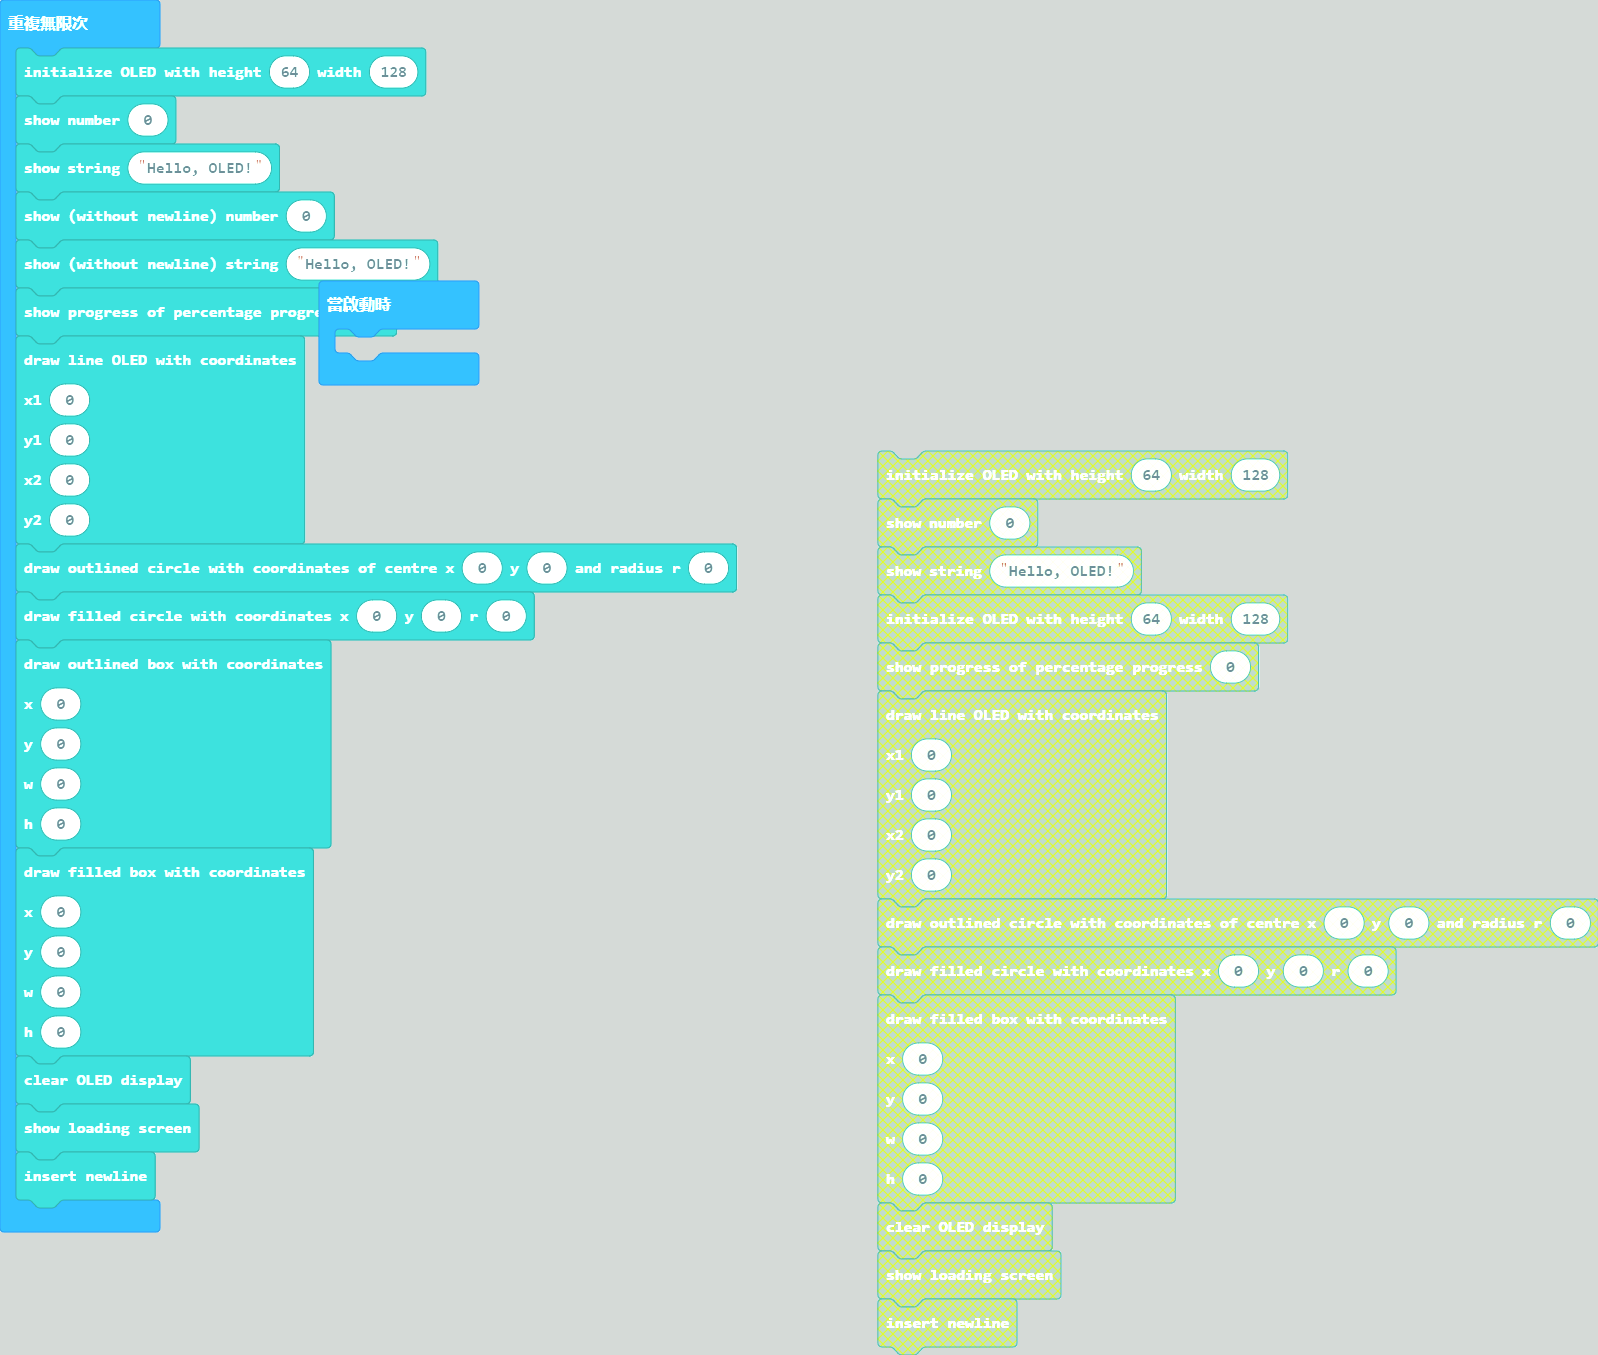
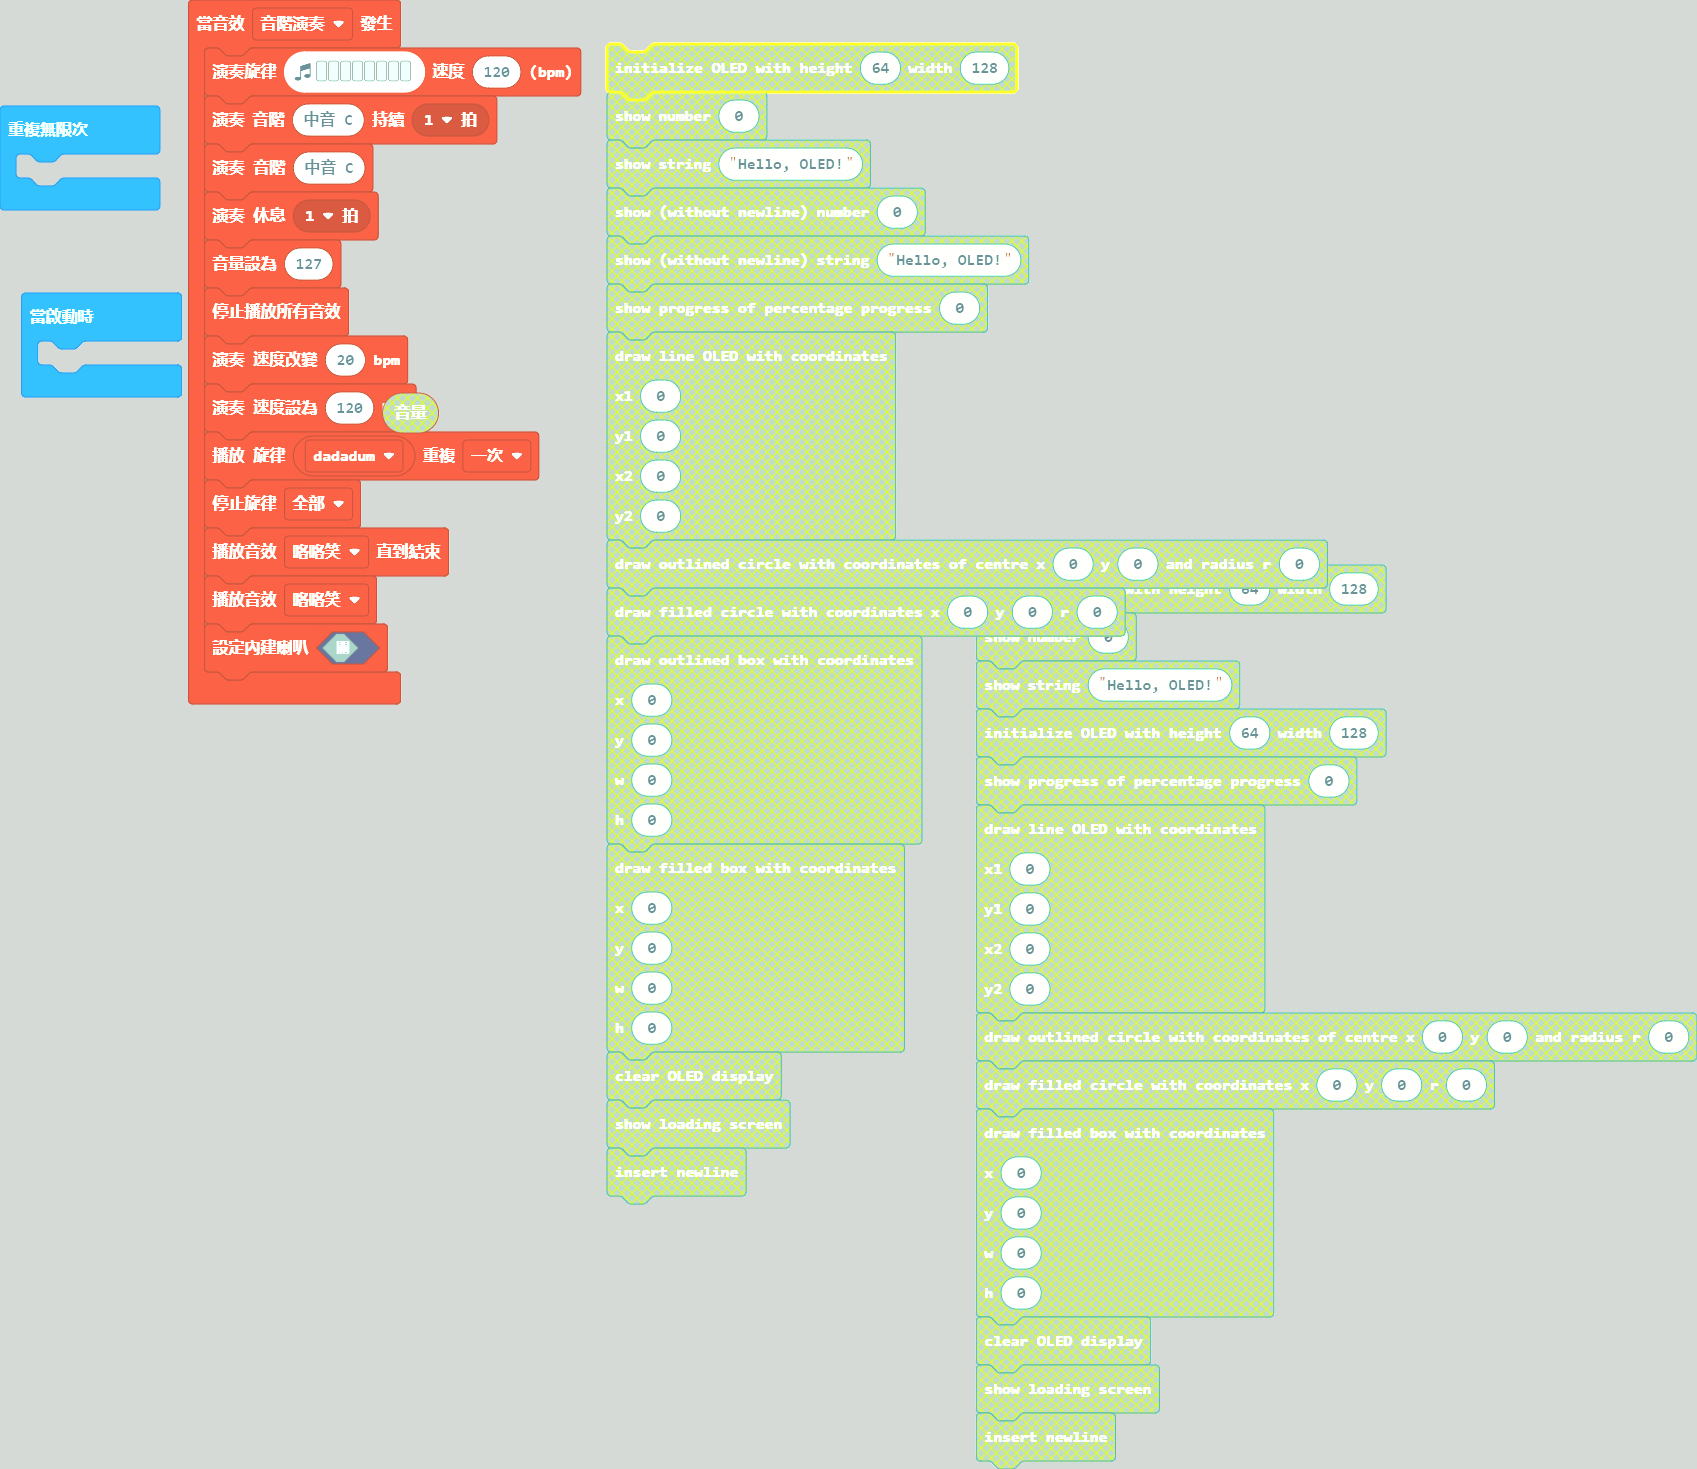
更新 main.blocks, main.ts

diff --git a/main.ts b/main.ts
@@ -1,31 +1,18 @@
+music.onEvent(MusicEvent.MelodyNotePlayed, function () {
+    music.playMelody("- - - - - - - - ", 120)
+    music.playTone(262, music.beat(BeatFraction.Whole))
+    music.ringTone(262)
+    music.rest(music.beat(BeatFraction.Whole))
+    music.setVolume(127)
+    music.stopAllSounds()
+    music.changeTempoBy(20)
+    music.setTempo(120)
+    music.startMelody(music.builtInMelody(Melodies.Dadadadum), MelodyOptions.Once)
+    music.stopMelody(MelodyStopOptions.All)
+    soundExpression.giggle.playUntilDone()
+    soundExpression.giggle.play()
+    music.setBuiltInSpeakerEnabled(false)
+})
 basic.forever(function () {
-    OLED.init(64, 128)
-    OLED.showNumberWithNewLine(0)
-    OLED.showStringWithNewLine("Hello, OLED!")
-    OLED.showNumberNoNewLine(0)
-    OLED.showStringNoNewLine("Hello, OLED!")
-    OLED.showProgress(0)
-    OLED.drawLine(
-    0,
-    0,
-    0,
-    0
-    )
-    OLED.drawCircle(0, 0, 0)
-    OLED.fillCircle(0, 0, 0)
-    OLED.drawRectangle(
-    0,
-    0,
-    0,
-    0
-    )
-    OLED.fillRectangle(
-    0,
-    0,
-    0,
-    0
-    )
-    OLED.clear()
-    OLED.loadingScreen()
-    OLED.nextLine()
+	
 })
